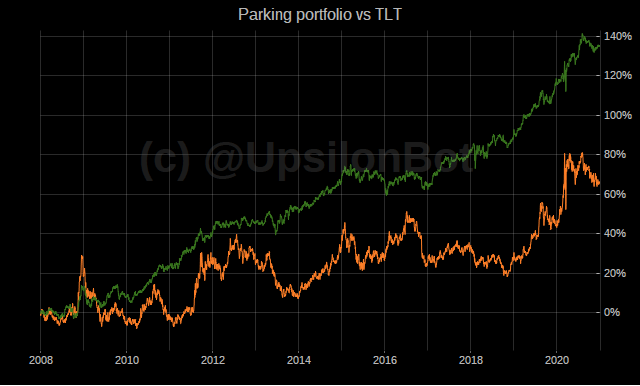
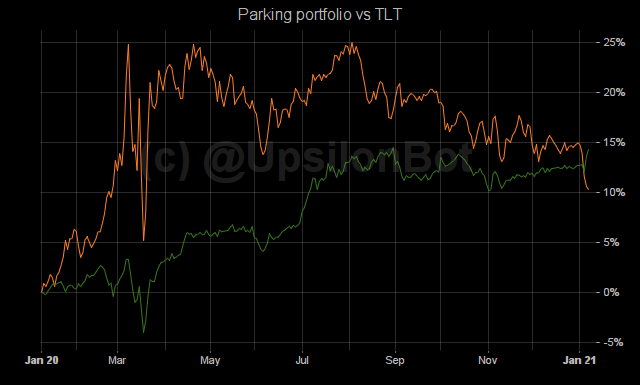
Работает Sat часть

diff --git a/tester/tester.py b/tester/tester.py
@@ -59,7 +59,7 @@ def portfolio_tester(init_cap=10000, port_id='parking', allocator_data_interval=
 
         # ======================================== P A R K I N G ========================================
         portfolio_args['port_id'] = 'parking'
-        portfolio_args['etf_only'] = True
+        portfolio_args['etf_only'] = False
         portfolio_args['cor_perc'] = 0.9
         portfolio_args['sat_perc'] = 0.1
         # ********************* Parking cor *********************
@@ -93,7 +93,7 @@ def portfolio_tester(init_cap=10000, port_id='parking', allocator_data_interval=
         portfolio_args['sat_linkage_'] = 'ward'
         portfolio_args['sat_risk_measure_'] = 'variance'
         portfolio_args['sat_graphs_show'] = False
-        portfolio_args['sat_selector_type'] = 1
+        portfolio_args['sat_selector_type'] = 21
         portfolio_args['sat_selector_adjustment'] = False
         portfolio_args['sat_selector_p1'] = 21
         portfolio_args['sat_selector_p2'] = 63
@@ -105,7 +105,7 @@ def portfolio_tester(init_cap=10000, port_id='parking', allocator_data_interval=
 
         # ======================================== A L L W E A T H E R ========================================
         portfolio_args['port_id'] = 'allweather'
-        portfolio_args['etf_only'] = True
+        portfolio_args['etf_only'] = False
         portfolio_args['cor_perc'] = 0.8
         portfolio_args['sat_perc'] = 0.2
         # ********************* Allweather cor *********************
@@ -139,7 +139,7 @@ def portfolio_tester(init_cap=10000, port_id='parking', allocator_data_interval=
         portfolio_args['sat_linkage_'] = 'ward'
         portfolio_args['sat_risk_measure_'] = 'variance'
         portfolio_args['sat_graphs_show'] = False
-        portfolio_args['sat_selector_type'] = 1
+        portfolio_args['sat_selector_type'] = 21
         portfolio_args['sat_selector_adjustment'] = False
         portfolio_args['sat_selector_p1'] = 21
         portfolio_args['sat_selector_p2'] = 63
@@ -151,7 +151,7 @@ def portfolio_tester(init_cap=10000, port_id='parking', allocator_data_interval=
 
         # ======================================== B A L A N C E D ========================================
         portfolio_args['port_id'] = 'balanced'
-        portfolio_args['etf_only'] = True
+        portfolio_args['etf_only'] = False
         portfolio_args['cor_perc'] = 0.7
         portfolio_args['sat_perc'] = 0.3
         # ********************* Balanced cor *********************
@@ -185,7 +185,7 @@ def portfolio_tester(init_cap=10000, port_id='parking', allocator_data_interval=
         portfolio_args['sat_linkage_'] = 'ward'
         portfolio_args['sat_risk_measure_'] = 'variance'
         portfolio_args['sat_graphs_show'] = False
-        portfolio_args['sat_selector_type'] = 1
+        portfolio_args['sat_selector_type'] = 21
         portfolio_args['sat_selector_adjustment'] = False
         portfolio_args['sat_selector_p1'] = 21
         portfolio_args['sat_selector_p2'] = 63
@@ -197,7 +197,7 @@ def portfolio_tester(init_cap=10000, port_id='parking', allocator_data_interval=
 
         # ======================================== A G G R E S S I V E ========================================
         portfolio_args['port_id'] = 'aggressive'
-        portfolio_args['etf_only'] = True
+        portfolio_args['etf_only'] = False
         portfolio_args['cor_perc'] = 0.7
         portfolio_args['sat_perc'] = 0.3
         # ********************* Aggressive cor *********************
@@ -212,7 +212,7 @@ def portfolio_tester(init_cap=10000, port_id='parking', allocator_data_interval=
         portfolio_args['cor_linkage_'] = 'ward'
         portfolio_args['cor_risk_measure_'] = 'variance'
         portfolio_args['cor_graphs_show'] = False
-        portfolio_args['cor_selector_type'] = 12
+        portfolio_args['cor_selector_type'] = 13
         portfolio_args['cor_selector_adjustment'] = False
         portfolio_args['cor_selector_p1'] = 21
         portfolio_args['cor_selector_p2'] = 126
@@ -225,13 +225,13 @@ def portfolio_tester(init_cap=10000, port_id='parking', allocator_data_interval=
         portfolio_args['sat_selector_end_date'] = selector_end_date
         portfolio_args['sat_etf_list'] = None
         portfolio_args['sat_cap_filter'] = 5000000000
-        portfolio_args['sat_assets_to_hold'] = 15
+        portfolio_args['sat_assets_to_hold'] = 7
         portfolio_args['sat_cov_method'] = 'semi'
         portfolio_args['sat_herc'] = False
         portfolio_args['sat_linkage_'] = 'ward'
         portfolio_args['sat_risk_measure_'] = 'variance'
         portfolio_args['sat_graphs_show'] = False
-        portfolio_args['sat_selector_type'] = 0
+        portfolio_args['sat_selector_type'] = 21
         portfolio_args['sat_selector_adjustment'] = False
         portfolio_args['sat_selector_p1'] = 63
         portfolio_args['sat_selector_p2'] = 63
@@ -244,7 +244,7 @@ def portfolio_tester(init_cap=10000, port_id='parking', allocator_data_interval=
         # ======================================== L E V E R A G E D ========================================
         portfolio_args['port_id'] = 'leveraged'
         portfolio_args['is_aliased'] = False
-        portfolio_args['etf_only'] = True
+        portfolio_args['etf_only'] = False
         portfolio_args['cor_perc'] = 0.65
         portfolio_args['sat_perc'] = 0.35
         # ********************* Leveraged cor *********************
@@ -278,7 +278,7 @@ def portfolio_tester(init_cap=10000, port_id='parking', allocator_data_interval=
         portfolio_args['sat_linkage_'] = 'ward'
         portfolio_args['sat_risk_measure_'] = 'variance'
         portfolio_args['sat_graphs_show'] = False
-        portfolio_args['sat_selector_type'] = 1
+        portfolio_args['sat_selector_type'] = 21
         portfolio_args['sat_selector_adjustment'] = False
         portfolio_args['sat_selector_p1'] = 21
         portfolio_args['sat_selector_p2'] = 63
@@ -334,27 +334,27 @@ def portfolio_tester(init_cap=10000, port_id='parking', allocator_data_interval=
 
 
 def main():
-    portfolio_tester(init_cap=10000, port_id='leveraged', allocator_data_interval=3, selector_data_interval=12,
-                     start_test_date=datetime.date(2010, 1, 1))
+    portfolio_tester(init_cap=10000, port_id='aggressive', allocator_data_interval=3, selector_data_interval=12,
+                     start_test_date=datetime.date(2020, 7, 1))
     pass
 
 
 if __name__ == '__main__':
-    # main()
-    mp.set_start_method('spawn')
-    q = mp.Queue()
-    # p1 = mp.Process(target=portfolio_tester, args=(10000, 'parking', 3, 12, datetime.date(2008, 1, 1),))
+    main()
+    # mp.set_start_method('spawn')
+    # q = mp.Queue()
+    # p1 = mp.Process(target=portfolio_tester, args=(100000, 'parking', 3, 12, datetime.date(2020, 1, 1),))
     # p1.start()
-    # p2 = mp.Process(target=portfolio_tester, args=(10000, 'allweather', 3, 12, datetime.date(2008, 1, 1),))
+    # p2 = mp.Process(target=portfolio_tester, args=(100000, 'allweather', 3, 12, datetime.date(2020, 1, 1),))
     # p2.start()
-    # p3 = mp.Process(target=portfolio_tester, args=(10000, 'balanced', 3, 12, datetime.date(2008, 1, 1),))
+    # p3 = mp.Process(target=portfolio_tester, args=(100000, 'balanced', 3, 12, datetime.date(2020, 1, 1),))
     # p3.start()
-    p4 = mp.Process(target=portfolio_tester, args=(10000, 'aggressive', 3, 12, datetime.date(2015, 11, 1),))
-    p4.start()
-    p5 = mp.Process(target=portfolio_tester, args=(10000, 'leveraged', 3, 12,  datetime.date(2015, 11, 1),))
-    p5.start()
+    # p4 = mp.Process(target=portfolio_tester, args=(100000, 'aggressive', 3, 12, datetime.date(2020, 1, 1),))
+    # p4.start()
+    # p5 = mp.Process(target=portfolio_tester, args=(100000, 'leveraged', 3, 12,  datetime.date(2020, 1, 1),))
+    # p5.start()
     # p1.join()
     # p2.join()
     # p3.join()
-    p4.join()
-    p5.join()
+    # p4.join()
+    # p5.join()
